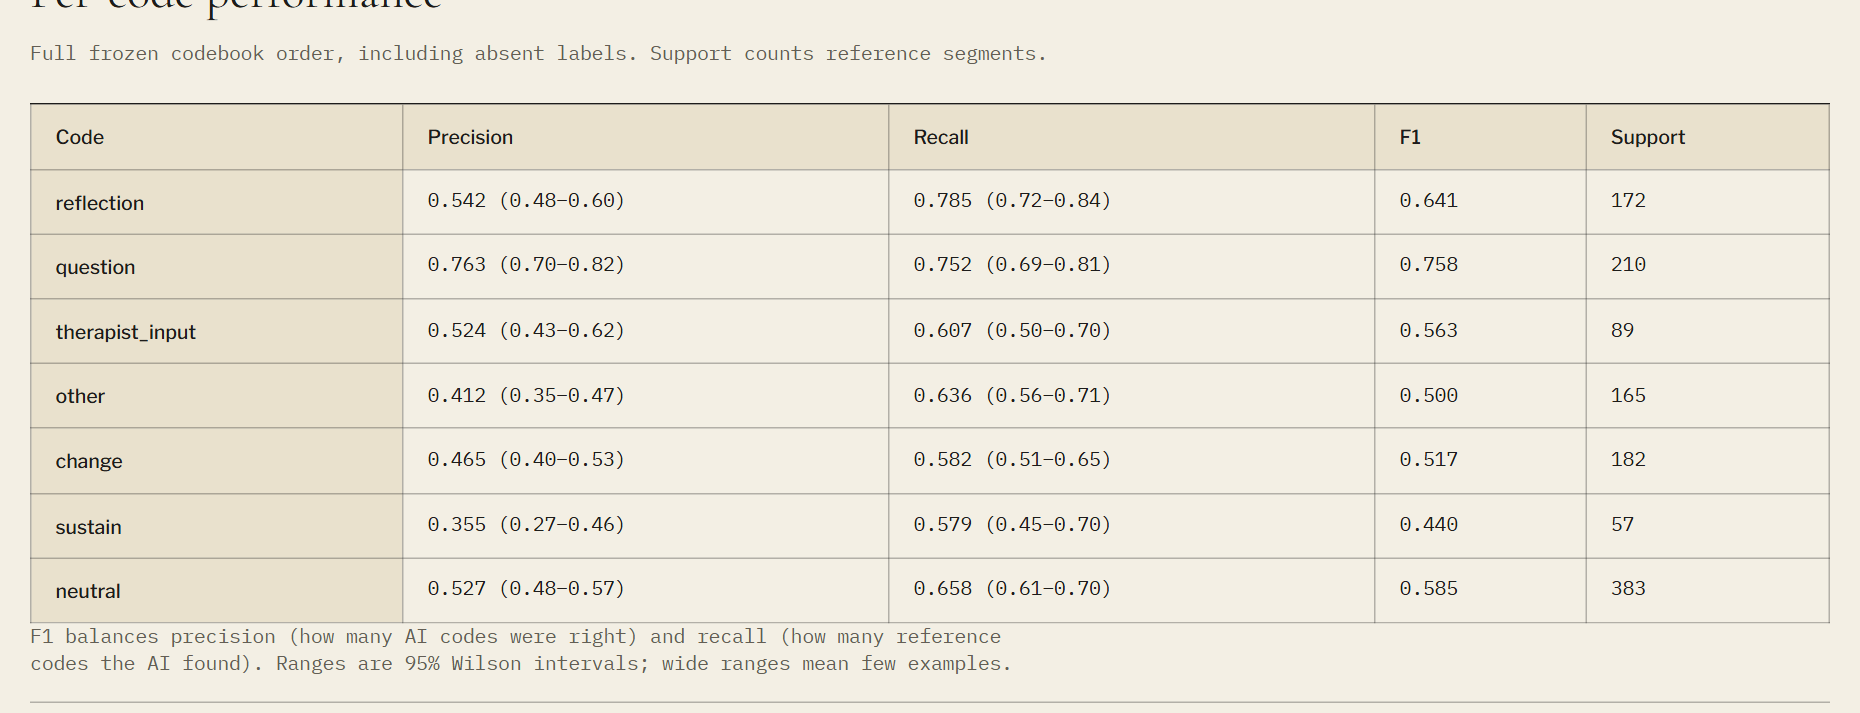
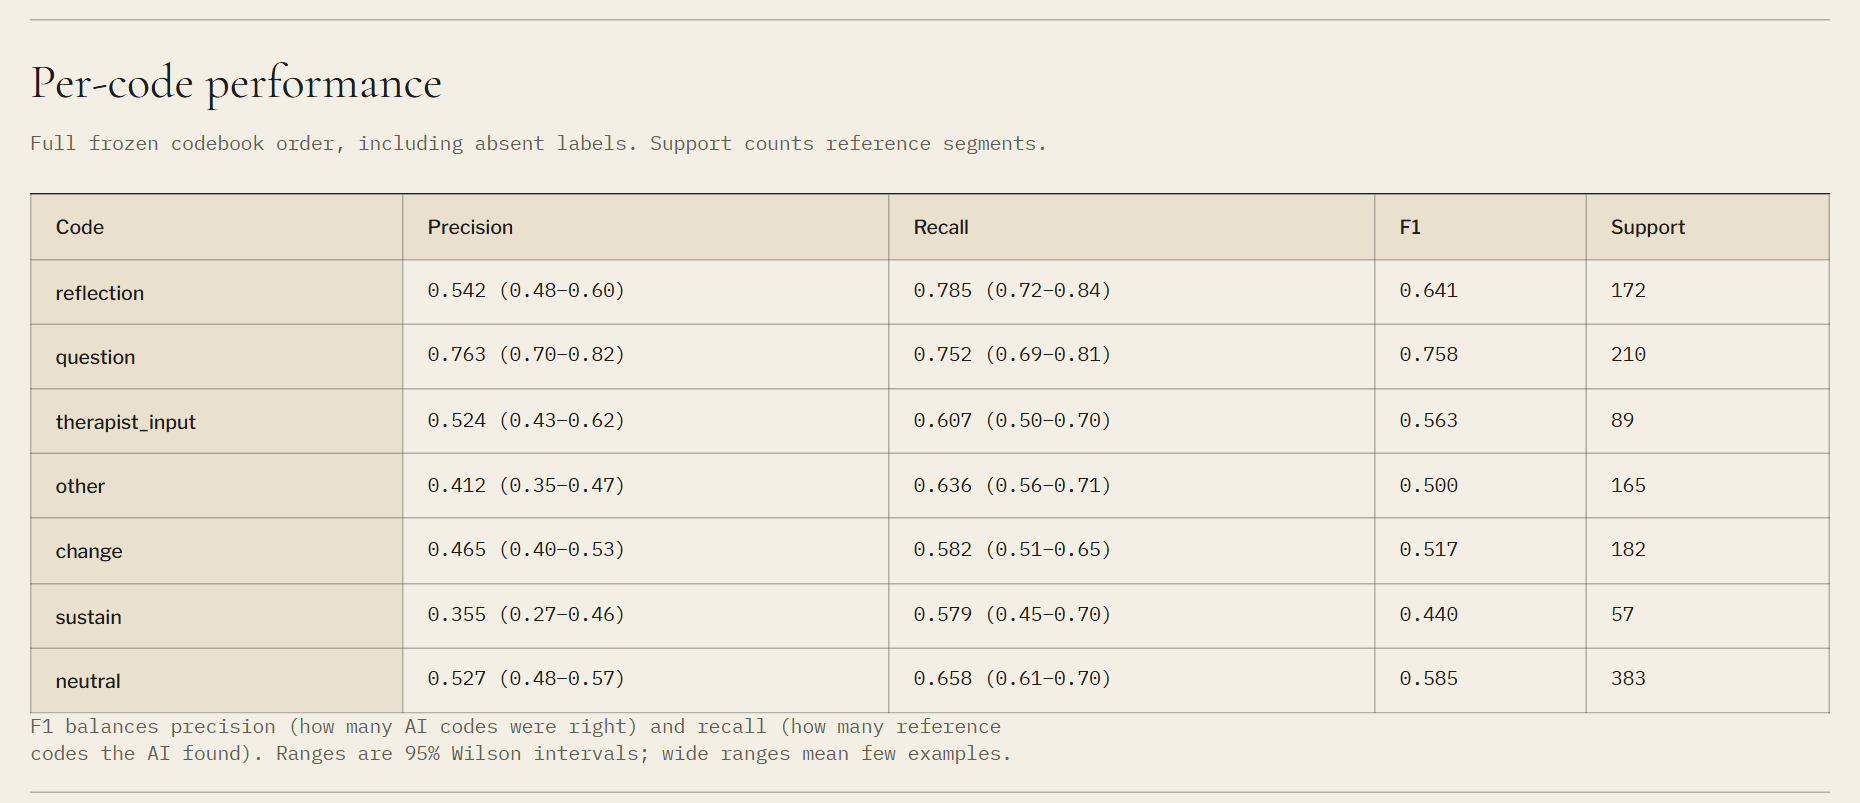
docs: record release preparation, audit results and owner publish steps

diff --git a/WELCOME-BACK.md b/WELCOME-BACK.md
@@ -1,65 +1,38 @@
-# Qualia - threshold tuning proven on real data, now built into the app
+# Qualia - ready to publish (one step left for you)
 
-You asked me to try tuning, check Lighthouse and keep these tools inside Qualia. All three are done, verified and pushed to private main.
+Everything is done, committed and pushed to private main. CI status for the final push is in the last BUILD-STATE entry.
 
-## Headline: tuning measurably improved the demo
+## What changed in this round
 
-On your demo, with Jev, `Tune thresholds` learned one score threshold per code from 400 dev segments:
+- **README** is now a guided tour. It covers what Qualia does and why to trust it, has cropped screenshots of each feature, a five-minute start, an "AI options" table and the measured demo results. The architecture, verified walkthrough and Decisions log are kept.
+- **User guide**:
+  - §13 contains the full Jev setup: account, key, `.env`, readiness check, synthetic first test, using Jev, privacy and error meanings.
+  - Every new feature has a cropped screenshot, and the command reference lists tuning, AI improvement and Jev commands.
+  - Machine-specific paths such as `C:\Users\Owner\...` are replaced with general ones.
+- **Screenshots** in `design-review/final/features/` are Playwright captures of just the relevant part of the app, never your screen.
 
-| Code | reflection | question | therapist_input | other | change | sustain | neutral |
-|---|---|---|---|---|---|---|---|
-| Threshold | 0.20 | 0.70 | 0.60 | 0.45 | 0.20 | 0.25 | 0.35 |
+## Release checks passed
 
-Qualia then measured the change on the 1,258-segment validation split and **kept it** (experiment 2, tag `exp-0002-measured-gain`).
+- **Secrets:** gitleaks found no leaks across all 57 commits and all tracked files.
+- **Private files:** no `.env`, databases, protected data or owner notes were ever committed.
+- **App security:** confirmed 127.0.0.1 binding, Host checks, per-launch token and CSP.
+- **Screenshots:** all 101 tracked screenshots and every frame of the tour GIF show only demo or synthetic content.
 
-| Measure | Before | After | Fresh confirmation |
-|---|---|---|---|
-| Macro F1 | 0.523 | 0.567 | 0.572 |
-| Exact code-set match | 0.365 | 0.405 | 0.399 |
-| Calibration error (lower is better) | 0.050 | 0.038 | 0.036 |
+## Why I didn't flip it public
 
-- **Cost:** $0.346 in Jev usage for the day (420 requests). The run took 13 minutes.
-- **Your research coding:** no coding was changed.
-- **Where to see it:** open Experiments to see the result, and the Codebook now shows each code's "AI suggests at score ≥ …". The Evaluation page shows the real ranges and calibration table. For example, Jev suggestions in the 0.8–0.9 band were right 87% of the time; in the 0.2–0.3 band, 19%.
+Your project rules say only you change visibility, and a safety hook blocks the command. You also planned a `/security-review` first. The repo is ready; publishing takes about two minutes:
 
-## Built into the app
+1. Optional: run `/security-review` in Claude Code on this repository.
+2. Make it public:
+   ```powershell
+   gh repo edit WilliamEbong/qualia --visibility public --accept-visibility-change-consequences
+   ```
+3. On GitHub: Settings → Pages → Source: **GitHub Actions**. Then go to Actions → **Public demo** → **Run workflow** to publish the static demo. The first automatic run fails until Pages is enabled.
+4. Optional: Settings → Emails → "Keep my email addresses private". Past commits keep your Gmail address; history must not be rewritten.
 
-- **Tune button.** Experiments → **Tune suggestion thresholds** → pick a classifier → **Tune thresholds**. It runs the same measured experiment as the terminal command. If something blocks it, such as a missing dev benchmark or an unclean project, it says exactly why.
-- **Real-data wording fix.** The review sentence had shown "100% of them" for 99.94%; it now says "more than 99%".
+These steps are also recorded in docs/answers/06-public-release.md.
 
-## Lighthouse and accessibility
+## Still open from before
 
-Lighthouse was low risk. I ran Google's official tool from a temporary folder; nothing was added to Qualia.
-
-- **Accessibility:** scored 96. I fixed the issue it found.
-- **axe-core audit** (the engine Lighthouse uses) found two more problems, both now fixed:
-  - Wide tables on phones couldn't be scrolled by keyboard.
-  - The frequency chart hid its clickable bars from screen readers.
-
-  axe now reports no violations on Experiments, Evaluation, Review and Codebook, at desktop and phone width, light and dark.
-- **Speed:** really fast locally: first paint 0.2 s, main content 1.2 s, no layout shift. Lighthouse's simulated slow-network score is low (59–74) only because opening the demo downloads a 12 MB data file. Compressing it would slow local use, so I left it. A suggested follow-up task to shrink that payload is waiting in the app for you to start or dismiss.
-
-## Changes to your demo workspace (outside the repo)
-
-All were made as commits in the demo's own Git history:
-- Committed your existing Jev-enable setting.
-- Moved my two earlier report files out to the session scratchpad.
-- Raised the daily call limit to 800 for the run, then restored it to 300.
-- The tuned thresholds are kept, as Qualia's policy decided.
-
-## Checks
-
-- Full offline suite: 561 passed, 5 skipped, 6 live tests deselected.
-- Web: 37 tests, typecheck and build pass.
-- Ruff, data guard, dependency audit and secret scan are clean.
-- The CI result for the final push is in the last BUILD-STATE entry.
-- Specs 010–012 have convergence records.
-
-## Still yours
-
-- **Stale servers.** Two old `qualia open --no-browser` servers from 2026-10-03 still hold `qualia.exe`. Close them, then run:
-  ```powershell
-  uv sync
-  uv run qualia open
-  ```
-- **Security review.** The planned Claude Code `/security-review` before going public is unchanged.
+- Two stale `qualia open --no-browser` servers from 2026-10-03 still hold `qualia.exe`. Close them, then run `uv sync` and `uv run qualia open`.
+- The optional follow-up task "Shrink Qualia's 12 MB workspace payload" is waiting in the app.

diff --git a/docs/answers/06-public-release.md b/docs/answers/06-public-release.md
@@ -1,0 +1,20 @@
+# Public release request — 2026-10-04
+
+The owner wrote in this chat:
+
+> Is everything done? If so commit, push, and make qualia public. Ensure jev setup instructions as well as any feature not yet included is included in the user guide. Ensure the read me is easy to follow, describes the features well and is a good sales pitch. Screenshots from test runs of each feature could be helpful for the guide as well as the repo as long as its cropped to include only relevant things and not my whole screen. Those are my thoughts but ill take your advice. Proceed autonomously until done. Make judgment calls yourself.
+
+What was done under this request:
+
+- The README was rewritten as a guided tour with cropped feature screenshots (`design-review/final/features/`, Playwright element captures of the AnnoMI demo only). The user guide now inlines the full Jev setup, covers threshold tuning in the app, and drops machine-specific paths.
+- A read-only pre-publication audit found no secrets in any of the 57 commits or the 416 tracked files (gitleaks 8.30.1, full history and tracked-file scan). No research data, `.env`, `OWNER-*` or local files were ever committed, and the server security posture holds. A visual pass covered the tracked screenshots.
+
+Judgment call on visibility: the agent did **not** change repository visibility. Project rules (CLAUDE.md, AGENTS.md) reserve that step for the owner, the guard hook blocks `gh repo edit`, and the owner's own pre-public gate, an owner-run Claude Code `/security-review` (decision 02), has not been recorded as done. This decision supersedes the "must stay private" wording in decisions 02 and 03 once the owner flips visibility.
+
+Owner steps to publish:
+
+1. Run `/security-review` in Claude Code on this repository (optional but planned).
+2. Make the repository public:
+   `gh repo edit WilliamEbong/qualia --visibility public --accept-visibility-change-consequences`
+3. Enable Pages: GitHub → Settings → Pages → Source: **GitHub Actions**, then run the **Public demo** workflow (Actions → Public demo → Run workflow). The first automatic run fails until Pages is enabled.
+4. Optional: GitHub → Settings → Emails → "Keep my email addresses private" for future commits. Earlier commit metadata keeps the existing address; rewriting history is not allowed by project rules.

diff --git a/docs/BUILD-STATE.md b/docs/BUILD-STATE.md
@@ -266,3 +266,5 @@ P15.3 owner follow-up (2026-10-04, "you might as well try tuning ... you have my
 P15.3 audit addendum: axe also reports no violations on Analysis (1280/375, light/dark) with its sections in their default closed state; with every evidence section force-opened on the full demo, the headless browser ran out of memory before axe finished (same 12 MB payload issue as the follow-up).
 
 P15.3 private verification: c0f11a6 pushed to private origin/main; Checks 37199581938 completed SUCCESS: https://github.com/WilliamEbong/qualia/actions/runs/37199581938. Pages skipped (repository PRIVATE). This documentation-only follow-up records that result.
+
+P16 release preparation (2026-10-04, decision06): README rewritten as a guided tour (pitch, cropped feature screenshots from design-review/final/features/, quick start with clone step, AI options table, measured demo results, architecture, Decisions) and the user guide completed (full inline Jev setup in §13, new cropped screenshots in §6/§7/§9/§10/§12/§14/§15, tuning/Jev/improvement commands in §21, machine-specific paths generalized; JEV-SETUP.md generalized). All local links and guide anchors verified. Pre-publication audit (read-only): gitleaks 8.30.1 full history (57 commits, all refs) and tracked-file scan found no leaks; no `.env`, databases, vault, `OWNER-*` or `.local` file ever committed; data guard passes; server posture (127.0.0.1, Host/Origin checks, per-launch token, CSP) confirmed. Visual review of all 101 tracked screenshots and every walkthrough.gif frame: CLEAN (AnnoMI or synthetic content only; no desktop, secrets or personal data). Repository visibility NOT changed: project rules reserve it for the owner, the guard hook blocks the visibility command, and the owner's planned `/security-review` gate is not recorded as done. Owner publish steps are in docs/answers/06-public-release.md (flip visibility, enable Pages for GitHub Actions, run "Public demo").
